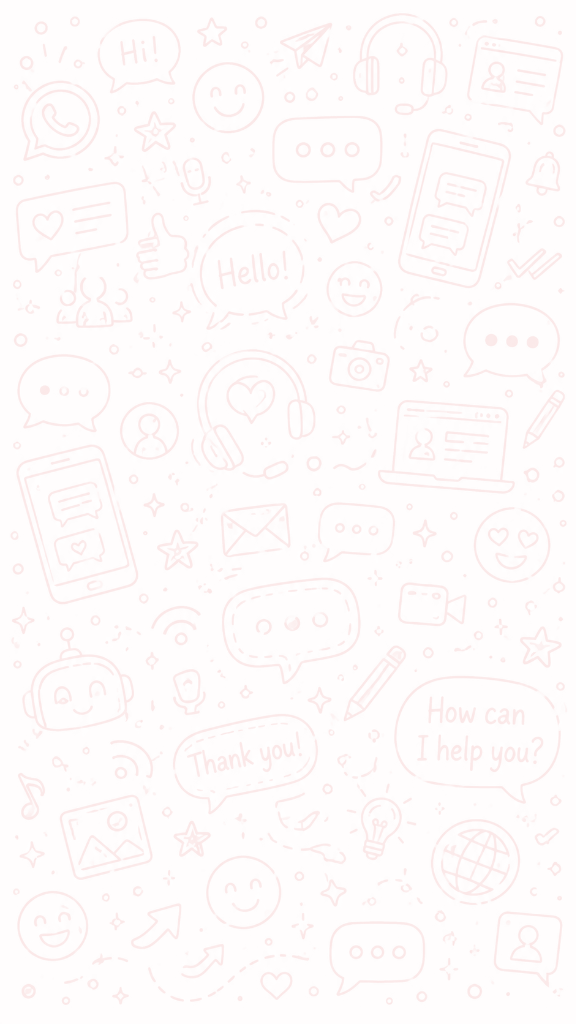
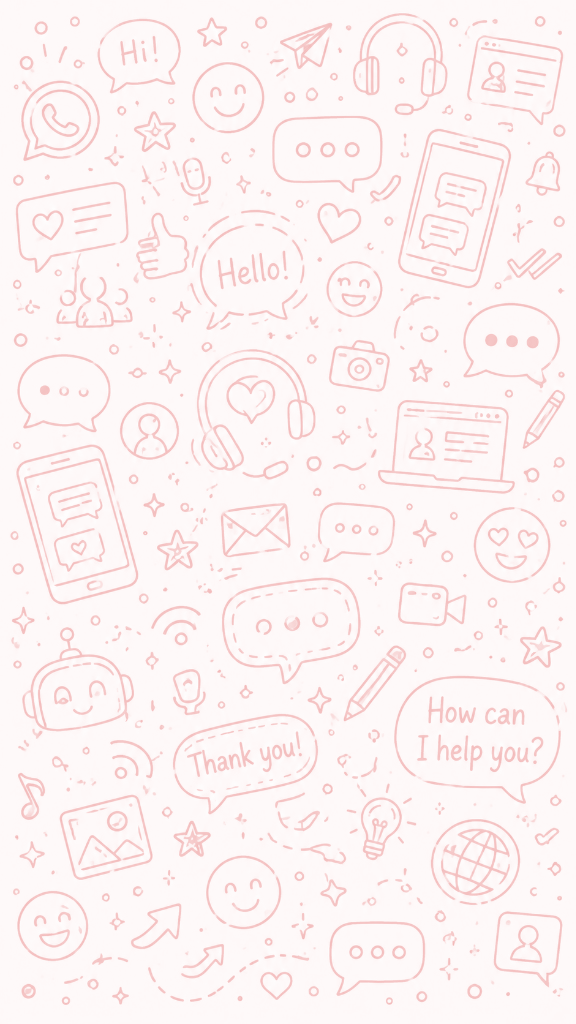
Change light mode chatbot bg color to #f5f5dd and increase red doodle opacity to make it sharp

diff --git a/src/App.jsx b/src/App.jsx
@@ -3649,7 +3649,7 @@ export default function App() {
 
             {/* Scrollable Conversation History */}
             <div 
-              className="flex-1 overflow-y-auto p-4 flex flex-col gap-4 font-body text-xs sm:text-sm bg-[#FFF0F0] dark:bg-[#111821] transition-colors"
+              className="flex-1 overflow-y-auto p-4 flex flex-col gap-4 font-body text-xs sm:text-sm bg-[#f5f5dd] dark:bg-[#111821] transition-colors"
               style={{
                 backgroundImage: isDark 
                   ? `url("/chat_bg_dark.png")`
